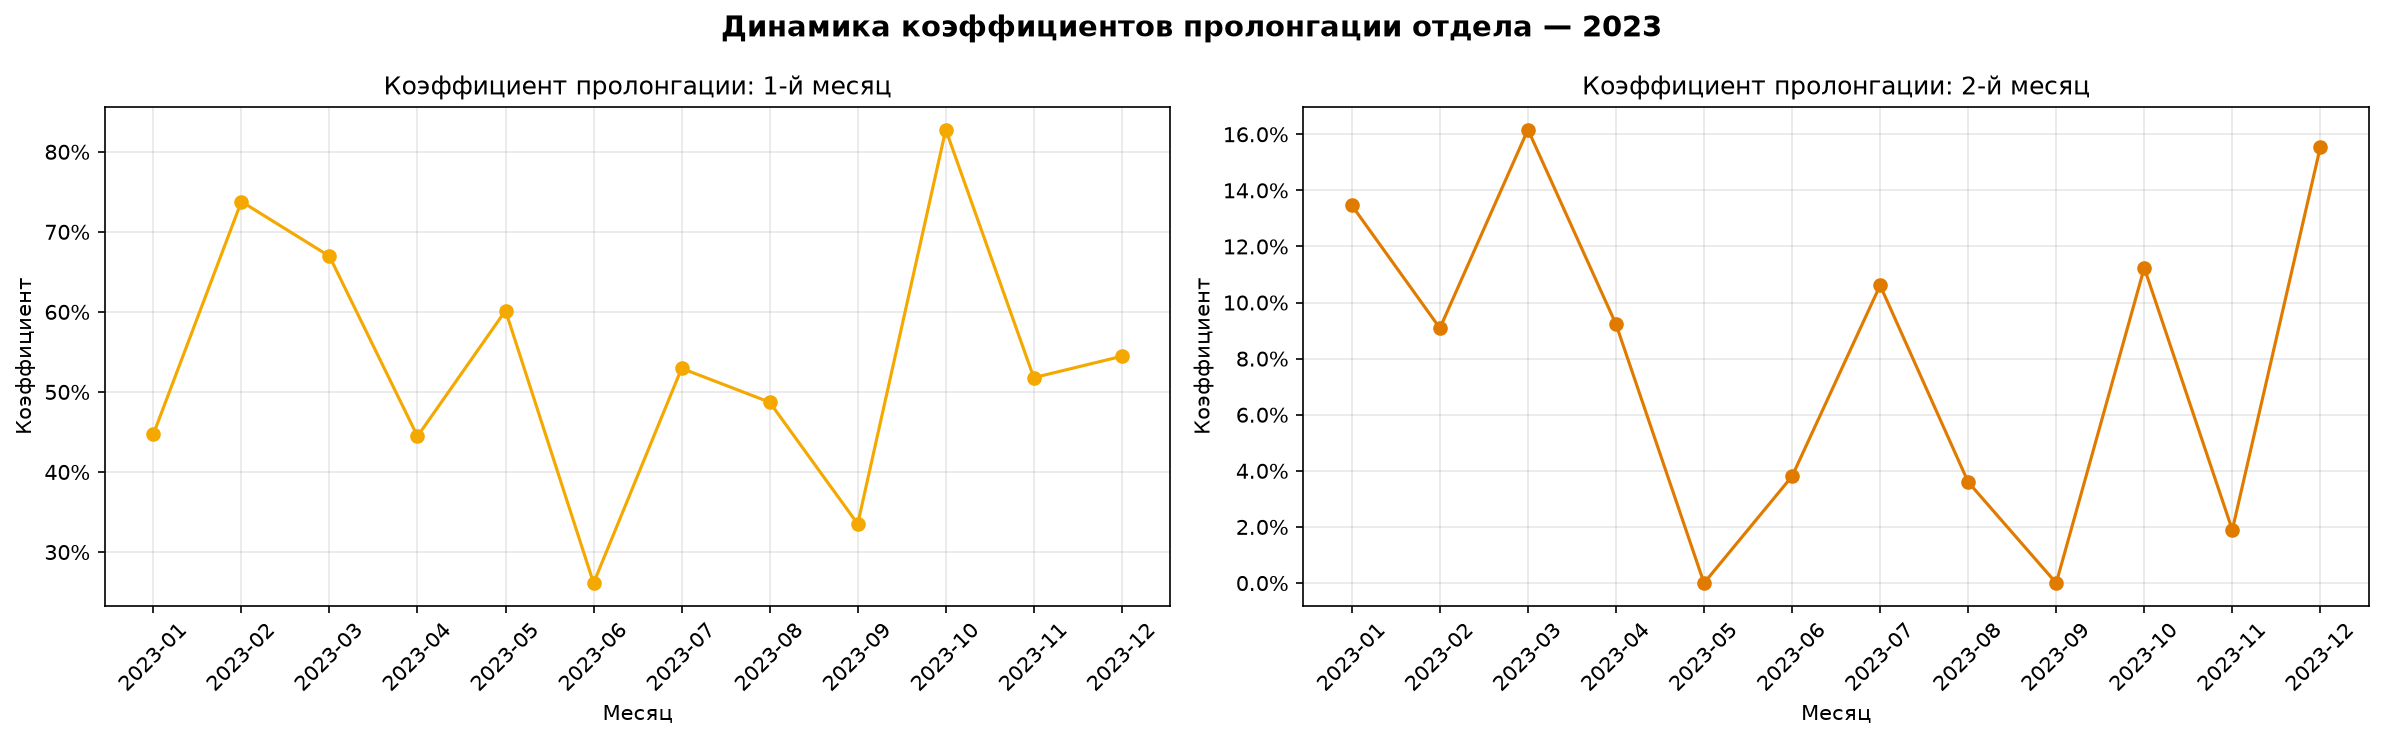
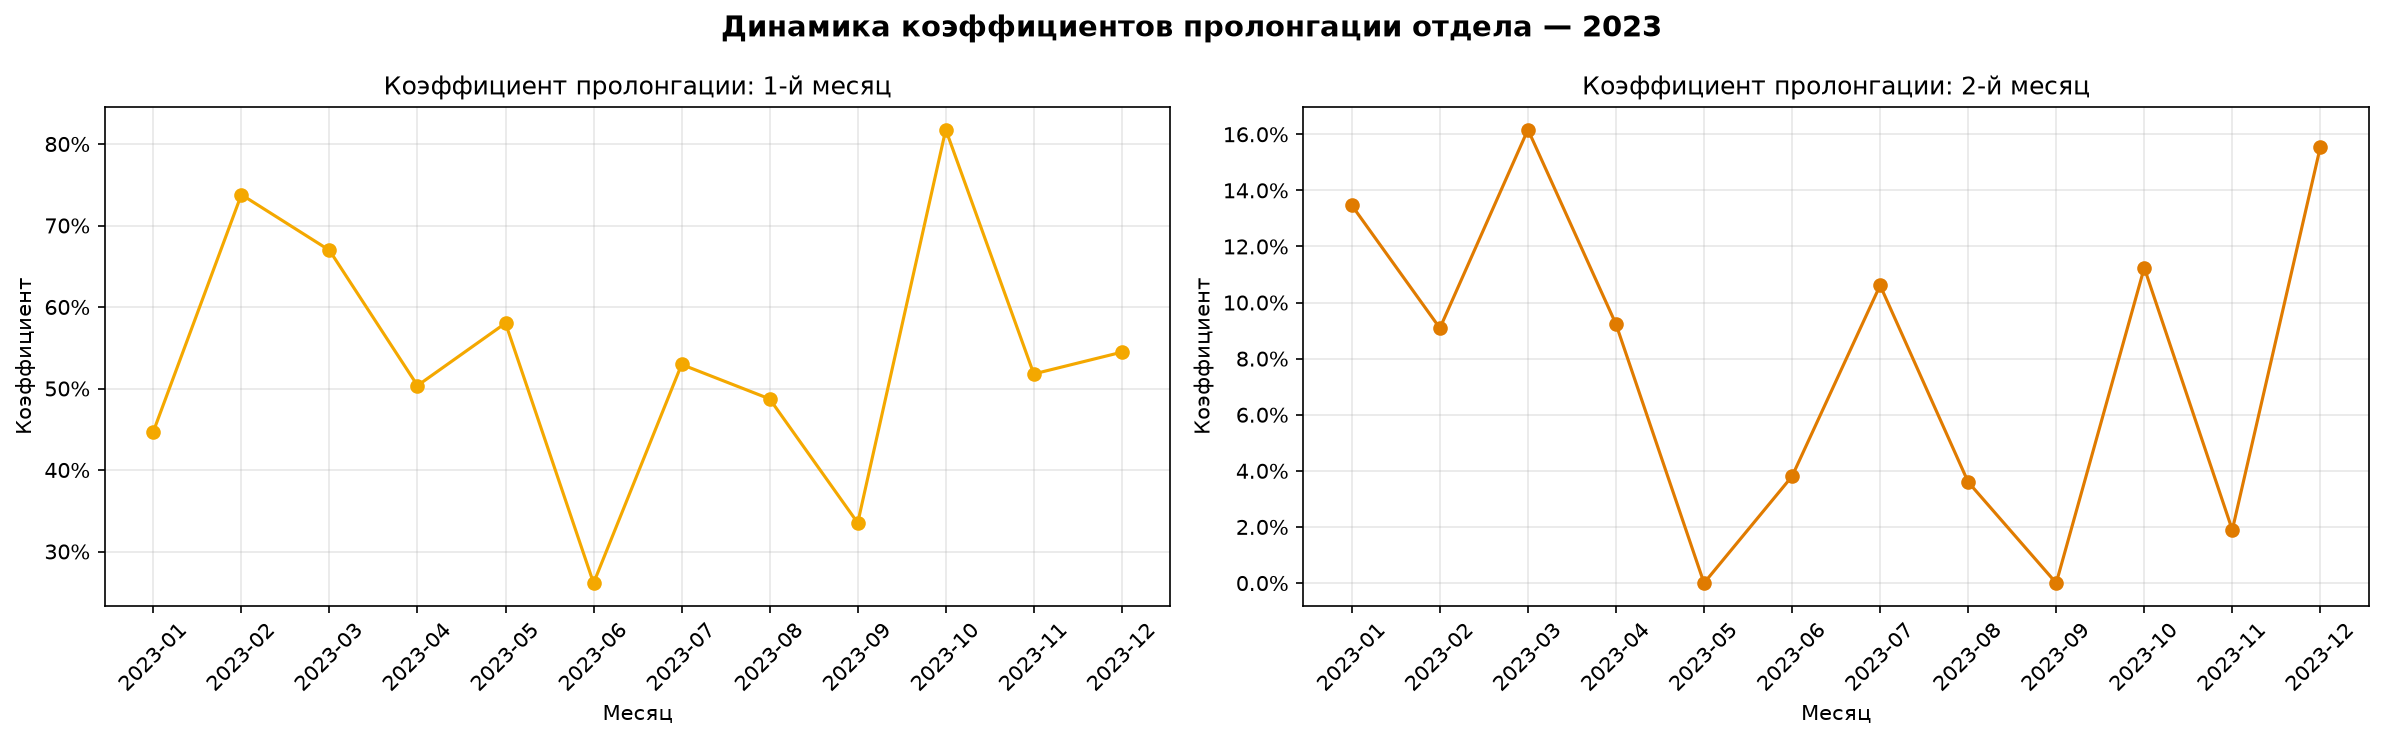
Fix: deduplicate prolongations by id+month (keep first AM)

diff --git a/prolongation_analysis.py b/prolongation_analysis.py
@@ -87,6 +87,11 @@ financial_grouped = (
     financial.groupby("id")[month_columns].sum().reset_index()
 )
 
+# Дедублицируем prolongations по id+month (оставляем первую запись).
+# В данных есть технические дубли (одинаковый AM дважды: id 600, 682, 697)
+# и один конфликт AM (id 361: Смирнова vs Попова → берём первую запись, Смирнову).
+prolongations = prolongations.drop_duplicates(subset=["id", "month"], keep="first")
+
 # Объединяем с prolongations (AM из prolongations — первичен)
 projects = (
     prolongations[["id", "month", "AM"]]